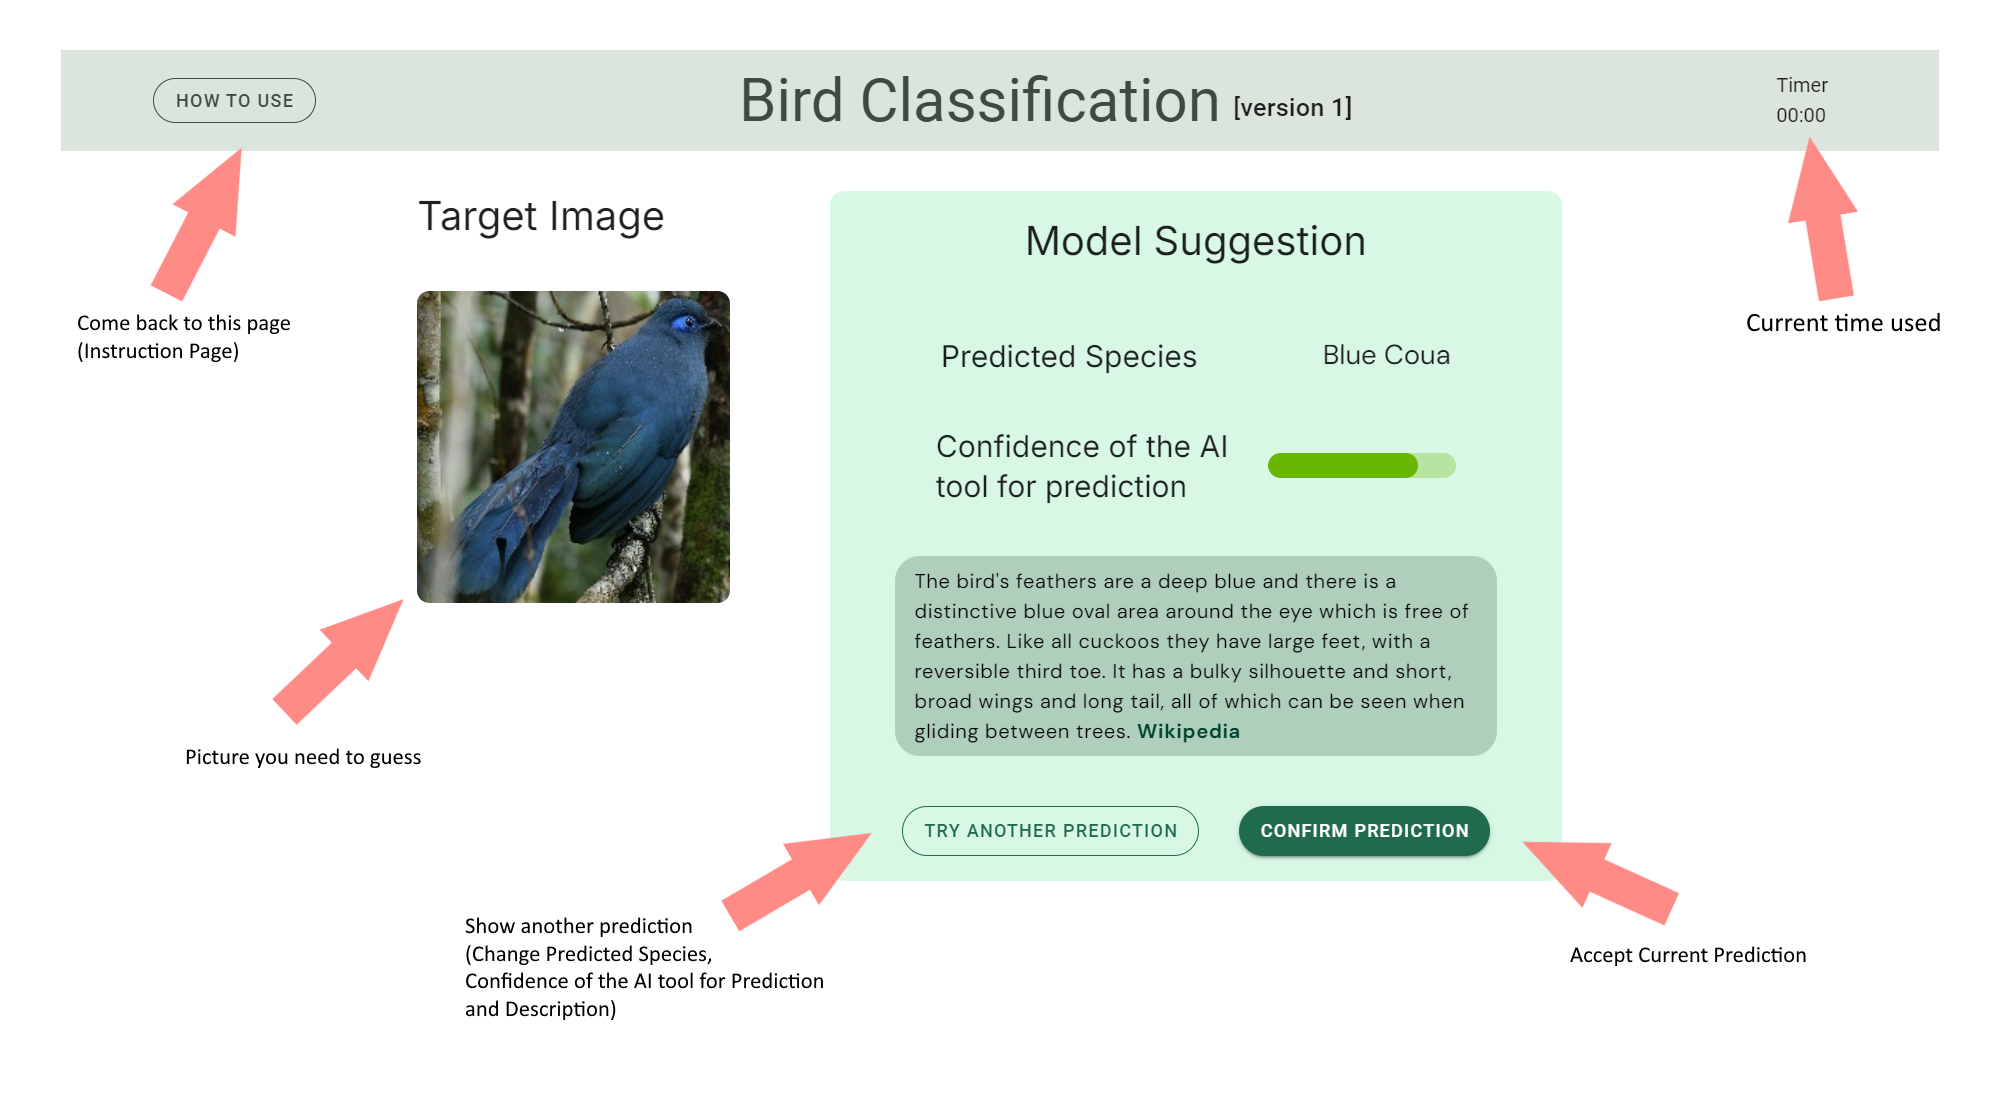
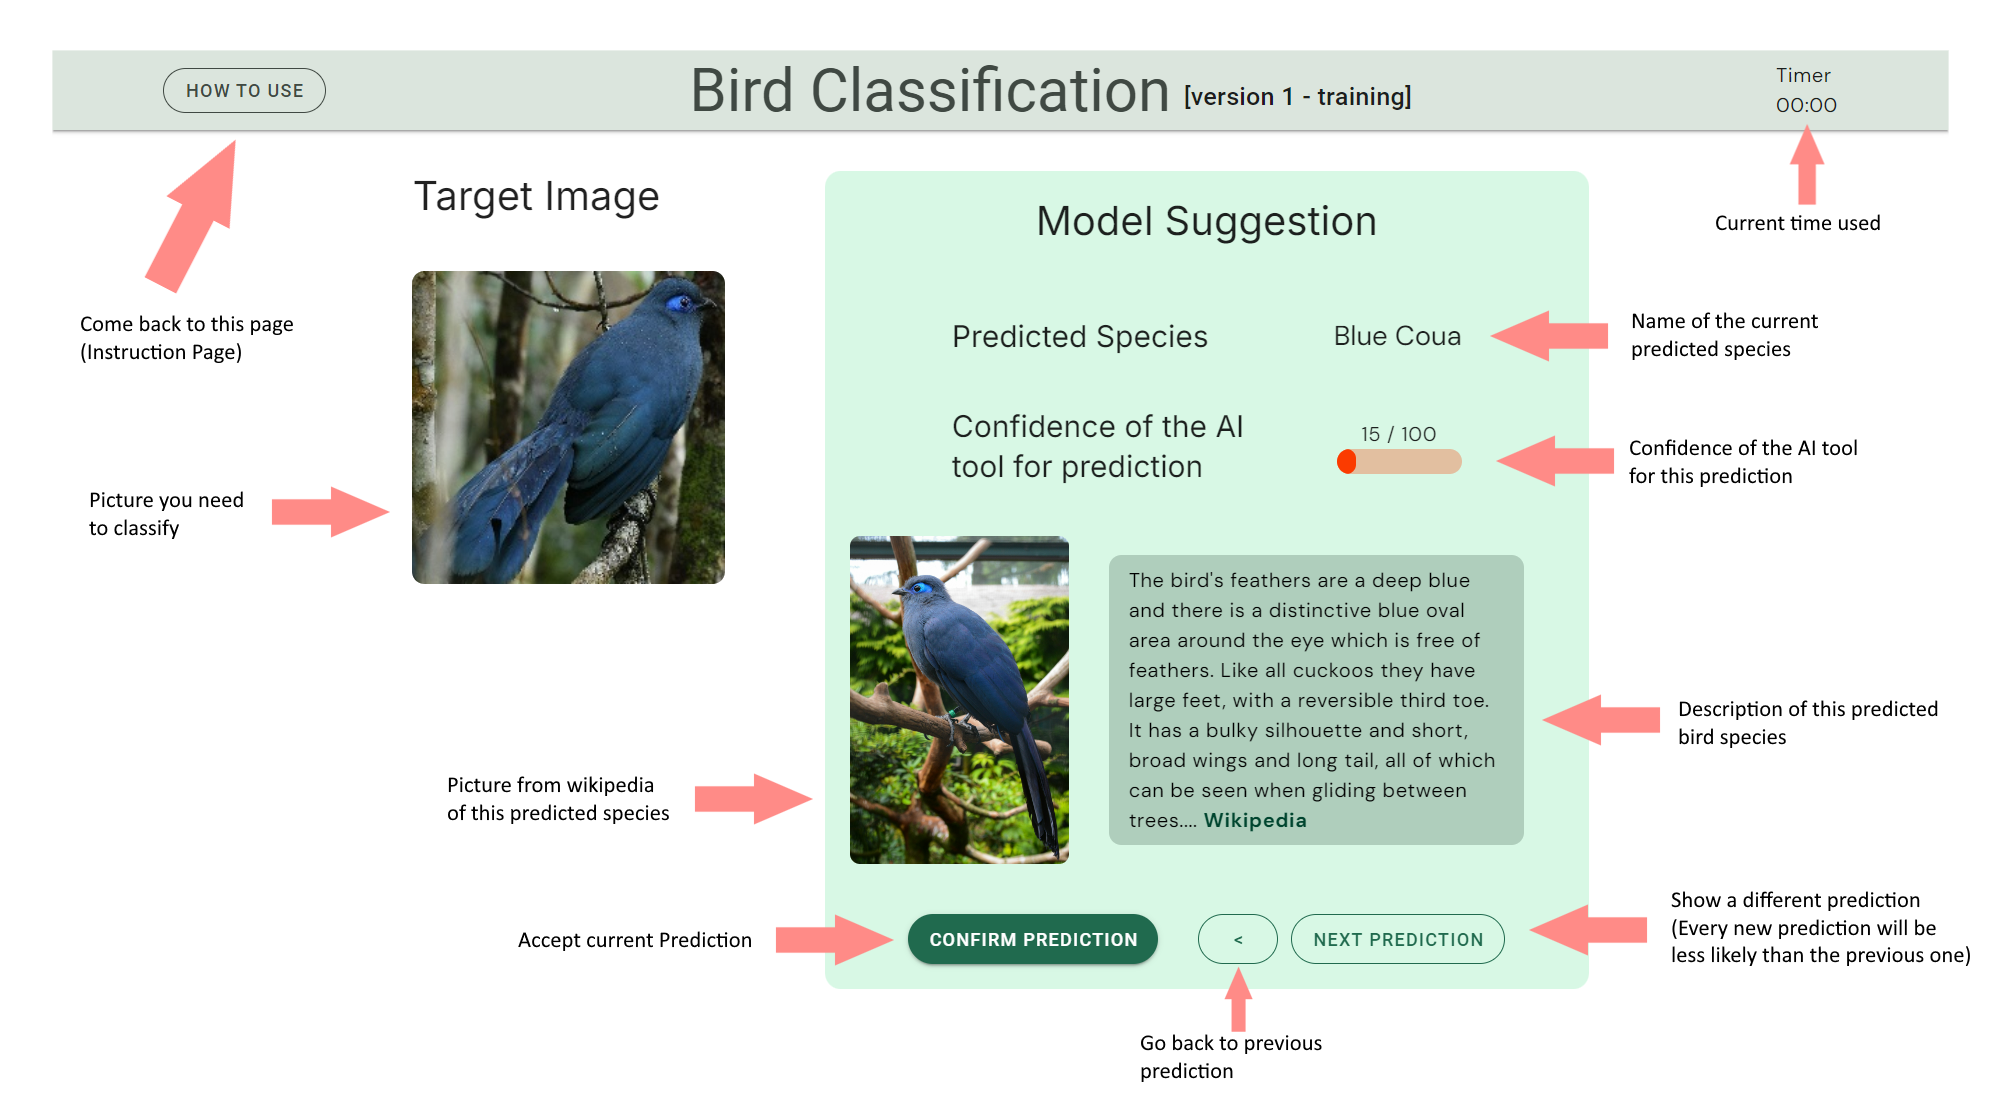
Changed oracle tutorial pic, added wikipedia picture in oracle

diff --git a/src/components/OracleInterfaceFlex.vue b/src/components/OracleInterfaceFlex.vue
@@ -32,9 +32,19 @@
                     
                 </div>
 
-                <div class="oracle-species-confidence">
-                    <div class="oracle-wiki-text mx-8 py-2 px-4" style="background-color: #AFCEBC; max-width: 500px;">
-                        <p class="oracle-wiki-description body-large" style="color:#000000;  max-width: 450px;"> {{
+                <div class="oracle-wiki-container">
+                    <div>
+                        <v-img 
+                        class="rounded-lg"
+                        :src="mainStore?.currentTask?.species[store.speciesVisualized].wikipic" 
+                        :width="175"                        
+                        >
+
+                        </v-img>
+
+                    </div>
+                    <div class="oracle-wiki-text mx-8 py-2 px-4" style="background-color: #AFCEBC;">
+                        <p class="oracle-wiki-description body-large" style="color:#000000;  max-width: 300px;"> {{
                             mainStore.currentTask.species[store.speciesVisualized].description.substr(0,300) }}...
                             <a class='wikilink' @click="openWikiLink()"
                                 :href="mainStore.currentTask.species[store.speciesVisualized].wikiLink"
@@ -44,10 +54,25 @@
                 </div>
 
                 <div class="oracle-species-confidence">
-                    <v-btn color="Primary" rounded="pill" text="Try another prediction" base-color="#FFFFFF" height="2.5rem"
-                        variant="outlined" elevation="0" @click="switchSpecies()"></v-btn>
+
                     <v-btn color="Primary" rounded="pill" text="Confirm Prediction" height="2.5rem"
                         @click="confirmSelection()"></v-btn>
+
+                    <div class="oracle-right-navigation">
+                        <v-btn :class="{ invisible: !allowPrevious() }" color="Primary" rounded="pill" text="<" base-color="#FFFFFF" height="2.5rem"
+                        variant="outlined" elevation="0" @click="store.prevSpecies()" ></v-btn>
+                        
+                        <v-btn v-if="!noMorePredictions" color="Primary" rounded="pill" text="Next prediction" base-color="#FFFFFF" height="2.5rem"
+                            variant="outlined" elevation="0" @click="store.nextSpecies(); seenAllSpecies();"></v-btn>
+
+                        <v-btn v-if="noMorePredictions" :class="{ invisible: !allowNext() }" color="Primary" rounded="pill" text=">" base-color="#FFFFFF" height="2.5rem"
+                            variant="outlined" elevation="0" @click="store.nextSpecies()" ></v-btn>
+                    </div>
+                    
+                    
+                    
+
+                    
                 </div>
 
             </div>
@@ -193,7 +218,24 @@ const timerSt = timerStore()
 const router = useRouter()
 
 const btnHelpPageText = ref("To the Tutorial")
+const noMorePredictions = ref(false)
 
+function allowPrevious(){
+    if(store.speciesVisualized > 0)
+        return true
+    return false
+}
+
+function allowNext(){
+    if(store.speciesVisualized < 2)
+        return true
+    return false
+}
+
+function seenAllSpecies(){
+    if(store.speciesVisualized == 2)
+        noMorePredictions.value = true
+}
 
 onMounted(async () => {
 	try {
@@ -298,6 +340,7 @@ async function confirmSelection(){
         store.addAnswer(); 
 		const oldUI = mainStore.currentUI;
         store.nextTask(); 
+        scroll(0,0)
         if(mainStore.runTask.length > 1)
             btnHelpPageText.value = "To the Task"
 		if (oldUI === mainStore.currentUI) {
@@ -364,3 +407,9 @@ watch(
 	})
 
 </script>
+
+<style>
+.invisible{
+    visibility: hidden;
+}
+</style>

diff --git a/src/views/SurveyView.vue b/src/views/SurveyView.vue
@@ -1,9 +1,14 @@
 <template>
 	<div class="survey-page">
-		<p v-if="!showNext" class="display-small ma-4">Survey Step</p>
+		<p v-if="!showNext || compareSurvey" class="display-small ma-4">Survey Step</p>
+
 		<v-btn :active="!showNext" v-if="!showNext" active-color="green-darken-4" class="ma-4" :href="link"
-			target="_blank" @click="showNext = true">Press here to open the Survey</v-btn>
-		<RouterLink class="ma-4" v-if="showNext" :to="{name: store.navigateNext}" @click="nextUI"><v-btn active
+			target="_blank" @click="showNextFun()">Press here to open the Survey</v-btn>
+
+		<v-btn :active="compareSurvey" v-if="compareSurvey" active-color="green-darken-4" class="ma-4" :href="compSurveyLink"
+			target="_blank" @click="compareSurvey = false">Press here to open comparative Survey</v-btn>
+
+		<RouterLink class="ma-4" v-if="showNext && !compareSurvey" :to="{name: store.navigateNext}" @click="nextUI"><v-btn active
 				active-color="green-darken-4">{{ pageLabel }}</v-btn></RouterLink>
 	</div>
 </template>
@@ -16,6 +21,10 @@ const store = inject('mainStore')
 
 const link = computed(() => store.surveyLink + store.user)
 const showNext = ref(false)
+
+const compareSurvey = ref(false)
+const compSurveyLink = "https://docs.google.com/forms/d/e/1FAIpQLScMiSV_sckR6c3bYb5CYTSbK_WD1YBFgDenrUbF-Z8GtBOZIA/viewform?usp=pp_url&entry.690602845=" + store.user
+
 
 const pageLabel = computed(() => {
 	const rawName = store.navigateNext
@@ -44,10 +53,19 @@ onMounted(async() =>{
 	catch (err) { }
 })
 
+function showNextFun(){
+	showNext.value = true
+	if(store.surveyLinks.length == 1)
+		compareSurvey.value = true
+
+	console.log(store.surveyLinks.length)
+}
+
 async function nextUI() {
 	console.log("cset new store content")
 	store.consumePage()
 	store.consumeLink()
+	
 	try {
 		if (store.currentDs?.tasks === undefined || store.currentTask === undefined) { return; }
 	}

diff --git a/src/assets/css/Disposition.css b/src/assets/css/Disposition.css
@@ -73,13 +73,11 @@ li + li {
 }
 
 .oracle-wiki-container{
-    display:flex;
+    display: inline-flex;
     flex-direction: row;
-    flex-wrap: wrap;
-    justify-content: space-evenly;  
+    flex-wrap: nowrap;
+    justify-content: center;
     align-items: center;
-    border-radius: 1rem;
-    /*background-color: #D8F8E5;*/
 
 }
 
@@ -87,8 +85,7 @@ li + li {
     display: flex;
     flex-direction: column;
     flex-wrap: nowrap;
-    gap: 1.5rem;
-    border-radius: 20px;
+    border-radius: 10px;
 }
 
 .oracle-wiki-description{
@@ -101,6 +98,24 @@ li + li {
     flex-wrap: nowrap;
     justify-content: flex-end;
     align-items: center;
+}
+
+.oracle-species-navigation{
+    display: flex;
+    flex-direction: row;
+    flex-wrap: nowrap;
+    justify-content: space-evenly;
+    align-items: center;
+    gap: 10px;
+}
+
+.oracle-right-navigation{
+    display: flex;
+    flex-direction: row;
+    flex-wrap: nowrap;
+    /* justify-content: space-evenly; */
+    align-items: flex-start;
+    gap: 10px;
 }
 
 /* Interactive Interface */

diff --git a/src/components/Results.vue b/src/components/Results.vue
@@ -64,10 +64,6 @@
                 </div>
             </div>
         </div>
-        <div>
-            <v-btn active active-color="green-darken-4" class="ma-4" :href="compSurveyLink" target="_blank">Press here
-                to open the Survey</v-btn>
-        </div>
 
     </div>
 </template>
@@ -81,7 +77,6 @@ import { timerStore } from '@/store/timerStore';
 const iStore = interactionStore()
 const oStore = oracleStore()
 const mainStore = useMainStore()
-const compSurveyLink = "https://docs.google.com/forms/d/e/1FAIpQLSf1EABgtJTGQ9qXQEhoZNo-WBNiOJ0UxUwN64UxL2fCzhUGGw/viewform?usp=pp_url&entry.690602845=" + mainStore.user
 const timer = timerStore()
 
 //const localOracle = JSON.parse(localStorage.getItem('oracleResults'))

diff --git a/src/store/iStore.js b/src/store/iStore.js
@@ -288,8 +288,17 @@ export const oracleStore = defineStore('oracleStore', {
         },
 
         rotateSpecies() {
-            console.log()
             this.speciesVisualized = (this.speciesVisualized + 1) % this.mainStore.currentTask.species.length;
+        },
+
+        nextSpecies() {
+            if(this.speciesVisualized < 2)
+                this.speciesVisualized++
+        },
+
+        prevSpecies() {
+            if(this.speciesVisualized > 0)
+                this.speciesVisualized--
         },
 
         openHelp() {

diff --git a/src/services/mainStore.js b/src/services/mainStore.js
@@ -163,6 +163,7 @@ export const useMainStore = defineStore('mainStore', () => {
 		consumeLink,
 		user,
 		surveyLink,
+		surveyLinks,
 		exprContext,
 		runTask
 	}
